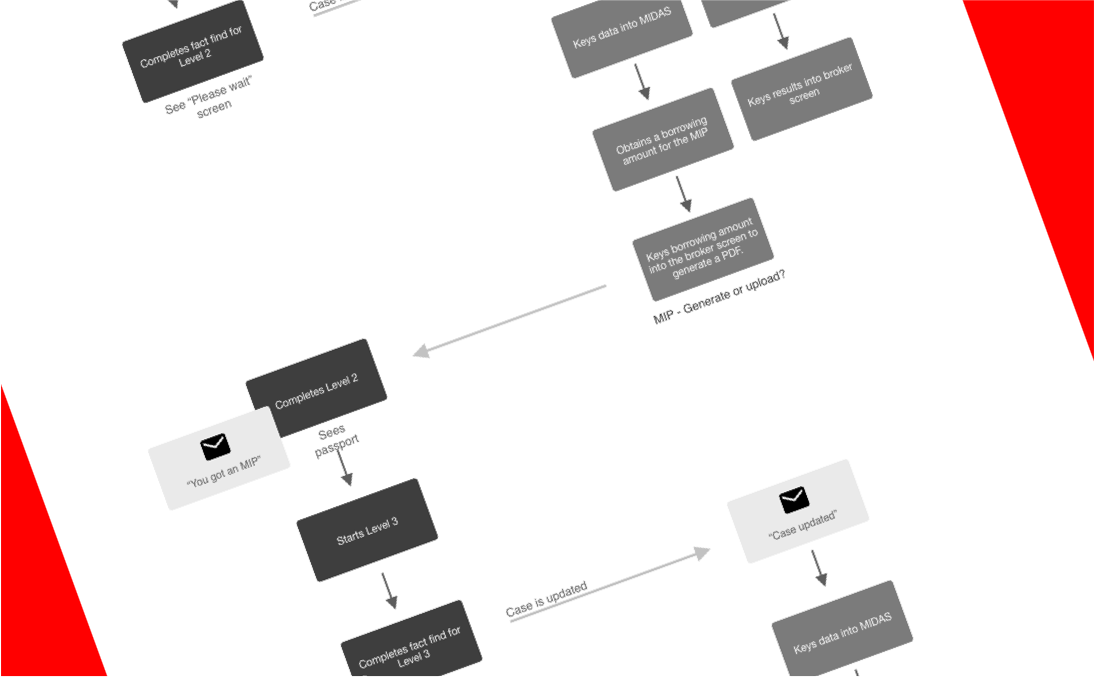
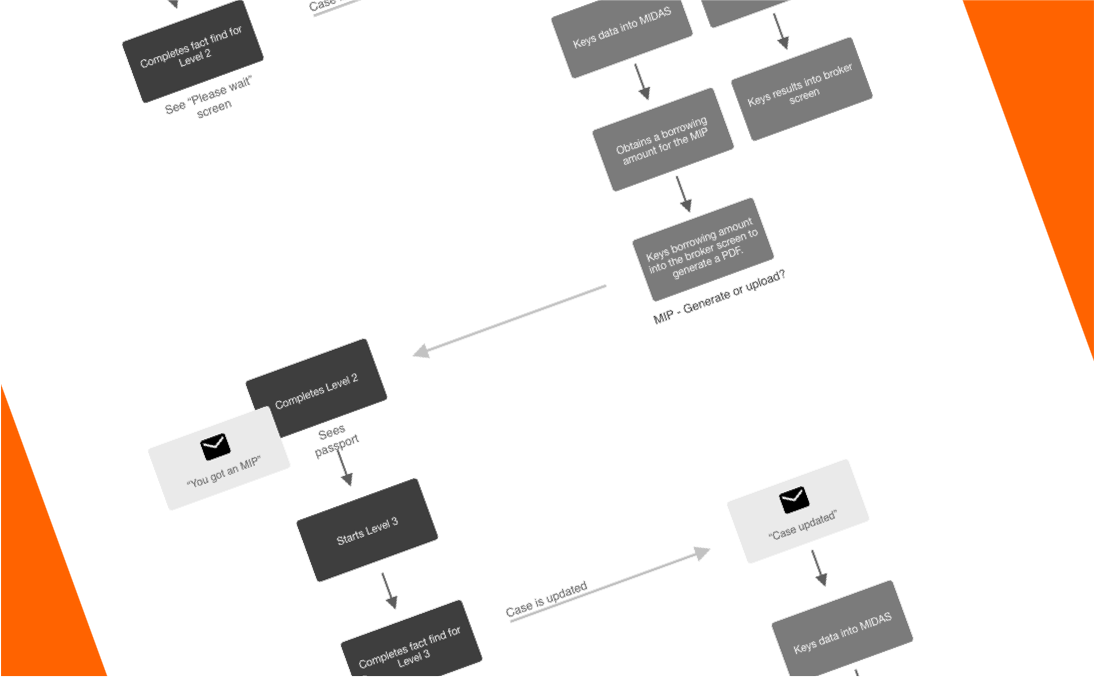
Fixes

Changed region(s): [[0.8694, 0.0, 1.0, 0.5265], [0.0, 0.5885, 0.0932, 1.0]]

diff --git a/src/components/Card.module.css b/src/components/Card.module.css
@@ -1,7 +1,7 @@
 @value sm, md, lg, xl from '../styles/breakpoints.css';
 
 .card {
-    border: 8px solid #eeeeee;
+    border: 8px solid #f3f3f3;
     margin-bottom: 100px;
     background: #FFFFFF;
     border-radius: 10px;
@@ -43,7 +43,7 @@
 .link {
     background: linear-gradient(180deg, transparent 60%, #e9e9e9 40%);
     text-decoration: none;
-    padding: 0.2rem 0;
+    padding: 0.2rem 0.2rem 0.2rem 0;
     font-weight: 700;
     font-size: 20px;
     color: #ff6000;
@@ -51,11 +51,13 @@
     transition: all 0.1s linear;
     position: relative;
     z-index: 0;
+    border-radius: 3px;
 }
 
 .link:hover {
-    transition: all 0.1s linear;
+    border-radius: 0;
     padding-bottom: 0.3rem;
+    transition: all 0.1s linear;
     background: linear-gradient(180deg, transparent 90%, #ff6000 10%);
 }
 
@@ -63,6 +65,12 @@
     top: 5px;
     left: 3px;
     position: relative;
+    transform: translateX(0);
+    transition: all 0.1s linear;
+}
+
+.link:hover .arrow {
+    transform: translateX(5px);
 }
 
 @media sm {

diff --git a/src/pages/portfolio/disrupting-mortgages.js b/src/pages/portfolio/disrupting-mortgages.js
@@ -472,10 +472,12 @@ export default function OneDome() {
                 the design iteration cycle:
               </p>
               <Image src={iterateImage} alt="Design iteration loop" />
+              <br />
               <p>
                 Evaluation is usually done using ordinary user testing
                 techniques, such as the Think Aloud protocol.
               </p>
+              <br />
             </Readable>
 
             {/* Sketches */}
